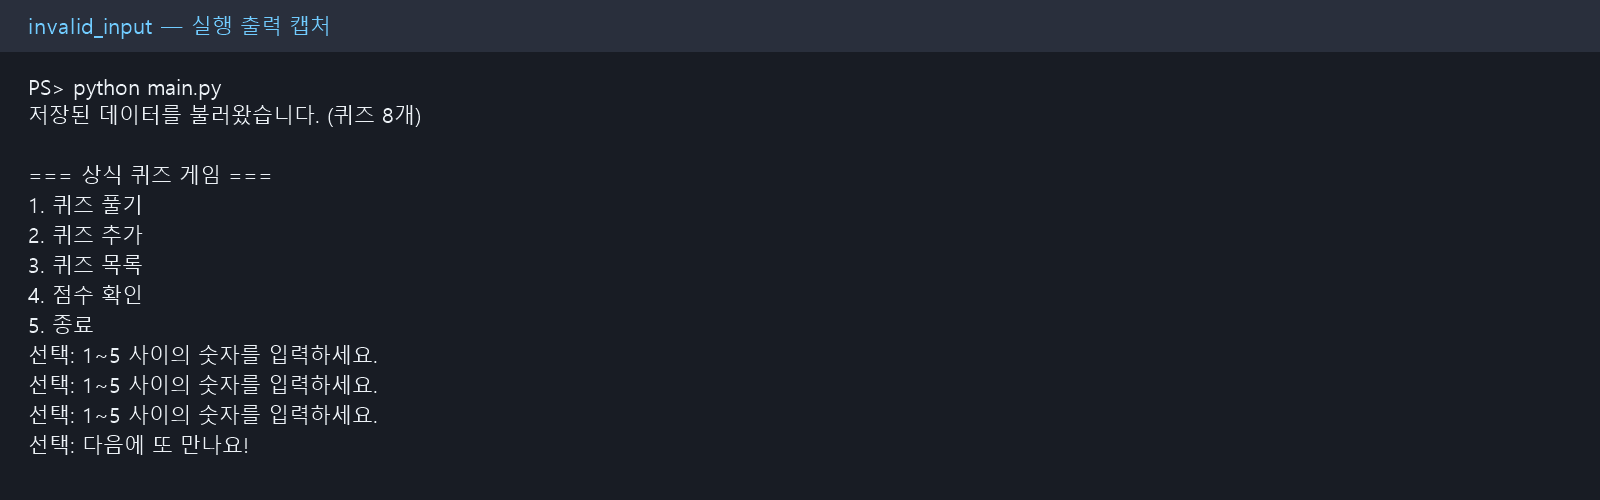
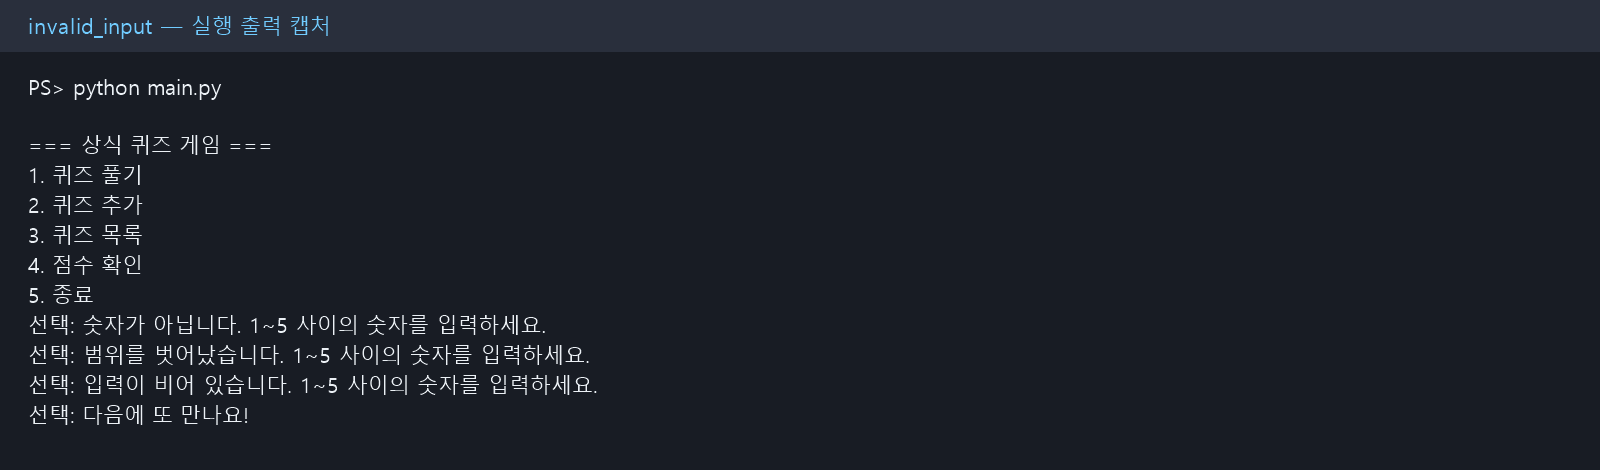
Docs: 평가용 실행 및 원격 Git 증거와 설계 설명 보강

Changed region(s): [[0.0, 0.2979, 0.375, 0.9234], [0.0, 0.1489, 0.2812, 0.2681], [0.0312, 0.0298, 0.2188, 0.0894]]

diff --git a/README.md b/README.md
@@ -35,12 +35,16 @@ quiz-game/
 ├── storage.py          # JSON 저장 및 불러오기
 ├── state.json          # 실행 시 생성되는 개인 데이터 (Git 제외)
 ├── tests/              # 자동 확인 코드
-└── docs/screenshots/   # 제출용 실행 화면
+└── docs/               # 실행 화면과 원본 명령 로그
 ```
+
+`Quiz`는 한 문제의 데이터와 정답 판정을 맡고, `QuizGame`은 메뉴와 풀이 흐름을 맡습니다. 클래스로 나누면 문제 형식 검증을 한 곳에서 재사용하고, 메뉴를 바꿀 때 문제 데이터 코드를 건드리지 않아도 됩니다. 파일 저장은 `storage.py`에 분리해 테스트할 수 있게 했습니다.
 
 ## 데이터 파일
 
 `state.json`은 프로젝트 루트에 UTF-8로 저장됩니다. 첫 실행에는 기본 문제 7개를 사용합니다. 파일이 없거나 손상되어 읽을 수 없다면 기본 문제로 시작합니다. 새 문제를 추가하거나 최고 점수가 바뀌면 저장합니다. 개인별 게임 기록이므로 Git에는 포함하지 않습니다.
+
+JSON은 Python 표준 라이브러리로 읽고 쓸 수 있고, 문제·선택지·점수처럼 중첩된 자료를 사람이 확인하기 쉬운 형태로 저장할 수 있어 선택했습니다. 저장할 때 먼저 `state.json.tmp`에 쓰고 완성되면 원본으로 교체합니다. 쓰기가 중간에 실패해도 이전 `state.json`을 유지합니다.
 
 ```json
 {
@@ -61,6 +65,14 @@ quiz-game/
 
 퀴즈를 아직 풀지 않았다면 `best_score`는 `null`입니다. 정답 번호는 1~4입니다.
 
+파일이 손상되면 원본을 `state.corrupt-날짜.json`으로 자동 백업하고 기본 문제로 시작합니다. 복구하려면 백업을 열어 JSON 오류를 수정하고 `python -m json.tool 백업파일명`으로 형식을 확인한 뒤, 게임을 종료한 상태에서 아래처럼 복사하세요. 백업 자체가 손상된 상태라면 내용을 먼저 고쳐야 합니다.
+
+```powershell
+Copy-Item 'state.corrupt-날짜.json' 'state.json'
+```
+
+백업 생성에도 실패하면 원본 보호를 위해 해당 실행에서는 저장을 중지하고 안내 메시지를 출력합니다.
+
 ## 확인 방법
 
 ```powershell
@@ -68,7 +80,17 @@ python -m unittest discover -s tests -v
 git log --oneline --graph --all
 ```
 
+숫자 입력은 공백 제거 후 검사하며, 빈 입력·문자 입력·범위 밖 숫자에 각각 다른 안내를 표시합니다. 메뉴와 각 문제의 정답 입력 모두 같은 검증 함수를 사용합니다.
+
+1,000문제에서 목록 보기와 전체 풀이를 검증한 결과 이번 실행에서 0.08초, 최대 추적 메모리 1.37 MiB였습니다. 시간은 실행 환경에 따라 달라집니다. [자동 테스트](tests/test_performance.py)에서 10초·30 MiB 상한을 확인하며, [테스트 출력](docs/evidence/test_results.txt)을 첨부했습니다.
+
+## Git 작업 규칙
+
+한 커밋에는 한 기능이나 한 문서 변경을 담습니다. 커밋 메시지는 `Feat: 퀴즈 추가 기능 구현`, `Fix: 잘못된 입력 안내 개선`, `Docs: 실행 화면 첨부`처럼 종류와 변경 내용을 적습니다. 이 저장소는 출제 기능을 `feature/play-quiz` 브랜치에서 작성하고 `main`에 병합했습니다.
+
 ## 실행 화면
+
+메뉴·등록·목록·풀이·점수의 실제 실행 출력은 [원본 실행 로그](docs/evidence/terminal_run.txt)에도 보관했습니다. 아래 이미지는 그 출력을 읽기 쉽게 표시한 캡처입니다.
 
 ### 메뉴
 
@@ -96,8 +118,18 @@ git log --oneline --graph --all
 
 ![Git 커밋과 브랜치 병합 기록](docs/screenshots/git_log.png)
 
+원격 `main`의 커밋 수와 이력을 확인한 [원본 로그](docs/evidence/remote_history.txt):
+
+![원격 저장소의 10개 이상 커밋 기록](docs/screenshots/remote_history.png)
+
+브랜치 그래프와 병합 커밋의 부모 SHA를 확인한 [원본 로그](docs/evidence/branch_merge.txt):
+
+![브랜치 그래프와 병합 기록](docs/screenshots/branch_merge.png)
+
 ## Git 복제 실습
 
 원본 저장소의 `pull --ff-only` 기록과 복제본의 `clone` 기록:
 
-![git clone 및 git pull 실행 기록](docs/screenshots/git_workflow.png)
+![git clone 및 git pull 실행 기록](docs/screenshots/clone_pull.png)
+
+[clone·pull 원본 명령 로그](docs/evidence/clone_pull.txt)
